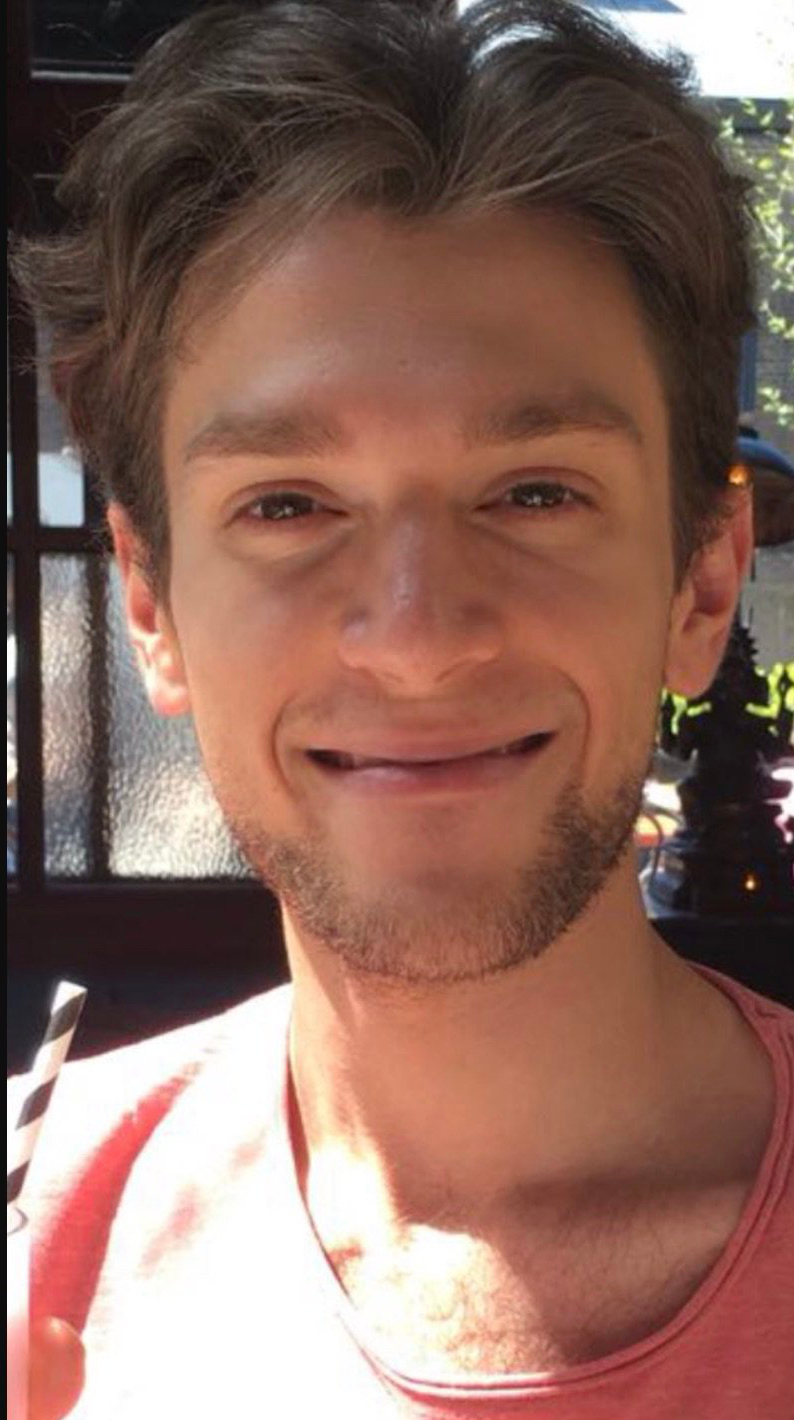
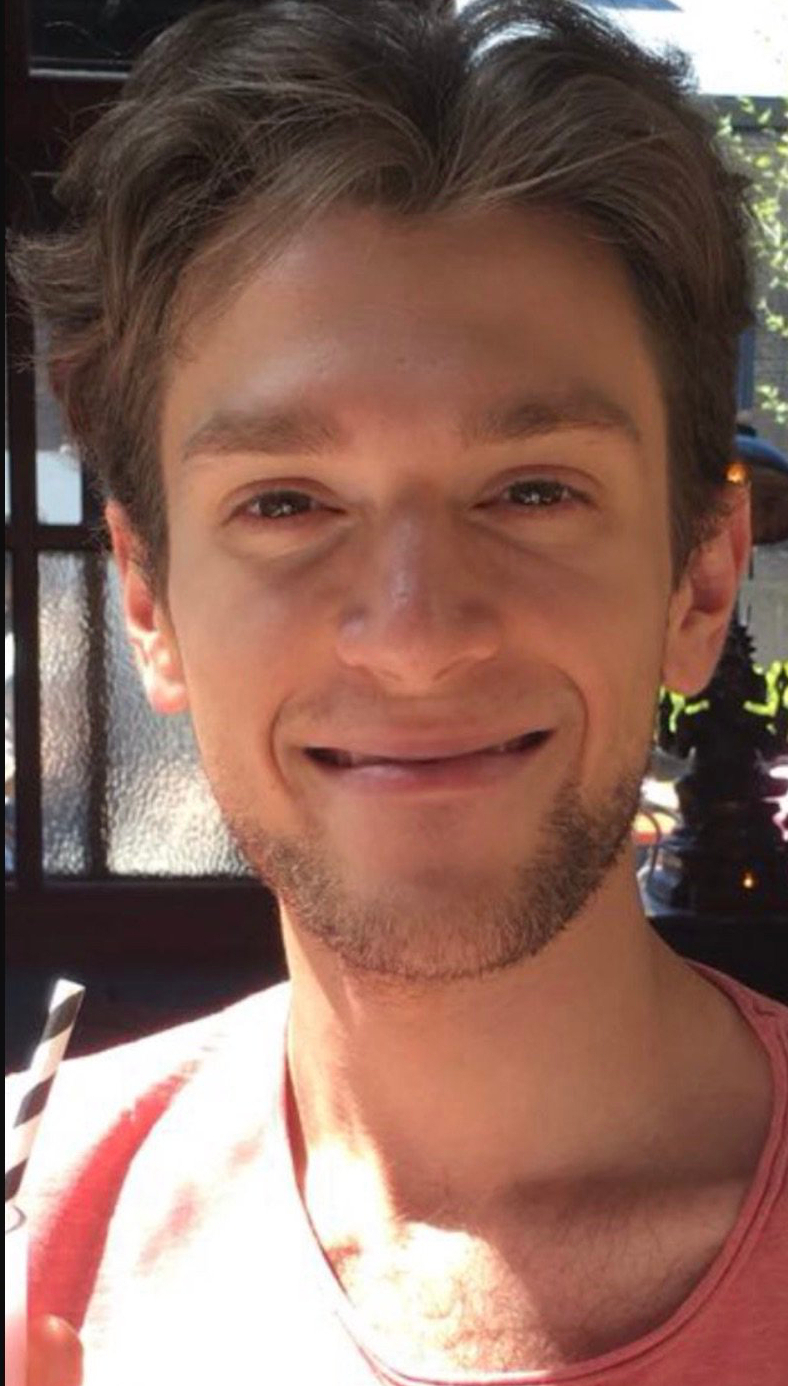
saving works

diff --git a/src/components/Danvas/Danvas.js b/src/components/Danvas/Danvas.js
@@ -32,8 +32,8 @@ const Danvas = ({ image }) => {
       <div ref={containerRef} id="artpaintingContainer">
         <canvas
           ref={canvasRef}
-          width="1024"
-          height="1024"
+          width="788"
+          height="1386"
           id="jeeFaceFilterCanvas"
           className="artPainting"
         />
@@ -42,13 +42,13 @@ const Danvas = ({ image }) => {
         type="button"
         onClick={() => {
           html2canvas(containerRef.current, {
-            width: canvasRef.current.width,
-            height: canvasRef.current.height,
+            width: containerRef.current.clientWidth,
+            height: containerRef.current.clientHeight,
             scale: 1,
-            x: 0,
-            y: 0,
+            x: 334,
+            y: 4,
           }).then(canvas => {
-            setSavedImg(canvas.toDataURL('image/png'));
+            setSavedImg(canvas.toDataURL('image/jpeg'));
           });
         }}
       >
